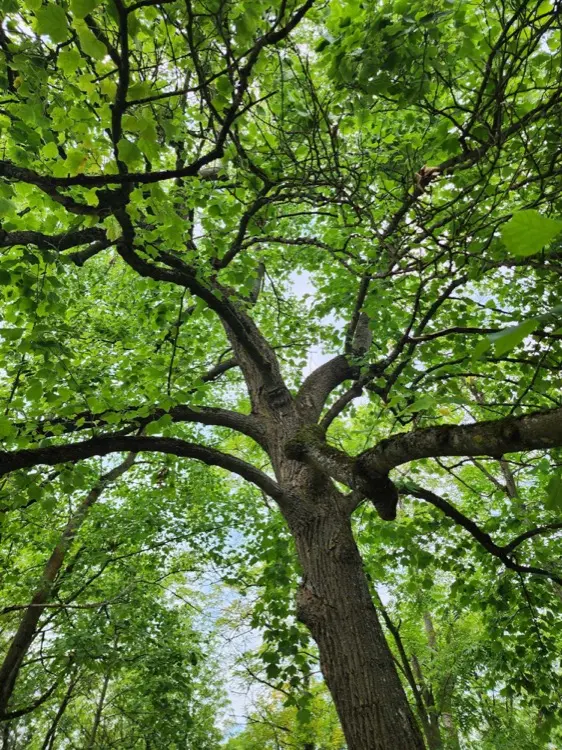
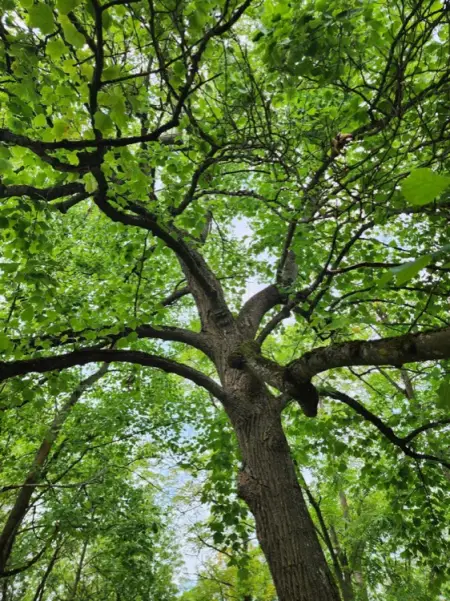
Further image resizing and compression

diff --git a/index.html b/index.html
@@ -41,8 +41,8 @@
   <section class="hero is-dark is-fullheight">
     <div class="main-hero">
       <picture>
-        <source type="image/webp" srcset="img/background~2-mobile.webp 750w, img/background~2.webp 1500w" sizes="100vw">
-        <source type="image/jpeg" srcset="img/background~2-mobile.jpg 562w, img/background~2.jpg 1500w" sizes="100vw">
+        <source type="image/webp" srcset="img/background~2-mobile.webp 450w, img/background~2.webp 1200w" sizes="100vw">
+        <source type="image/jpeg" srcset="img/background~2-mobile.jpg 450w, img/background~2.jpg 1200w" sizes="100vw">
         <img src="img/background~2.jpg" alt="Mountain background" fetchpriority="high">
       </picture>
     </div>
